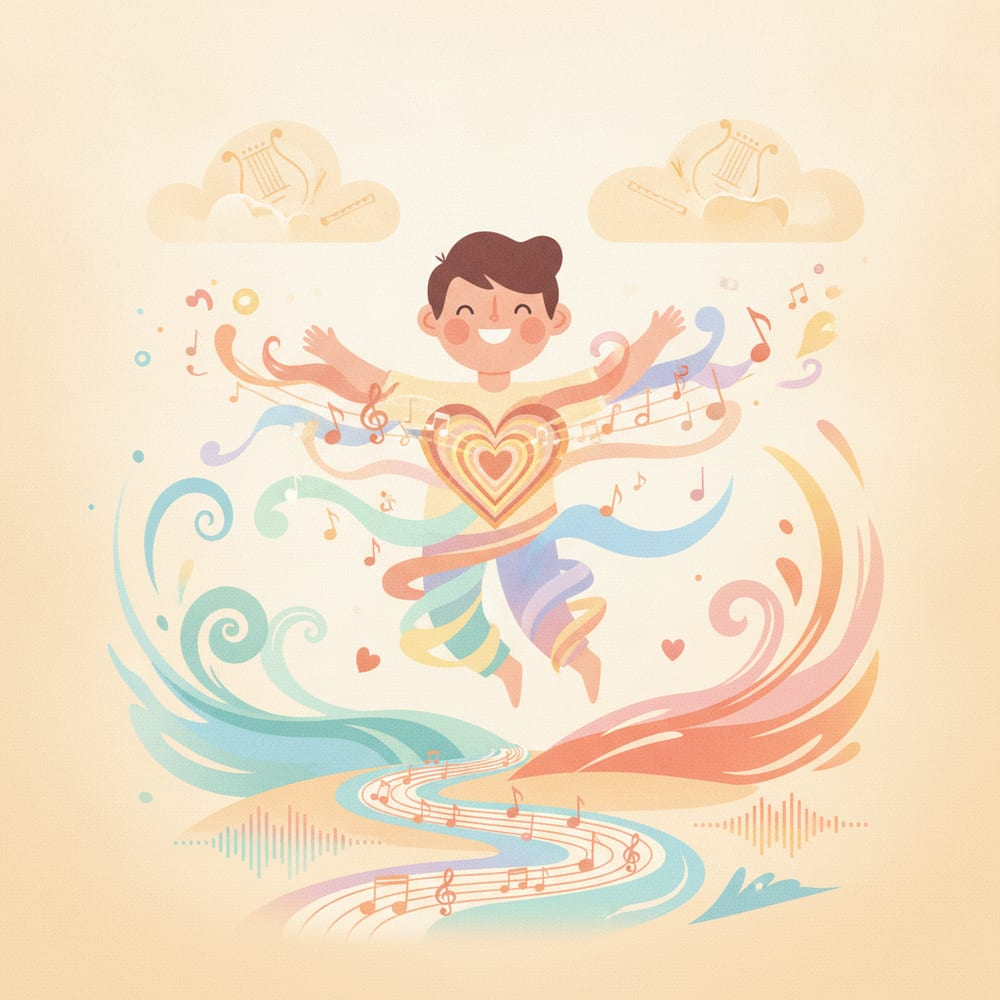
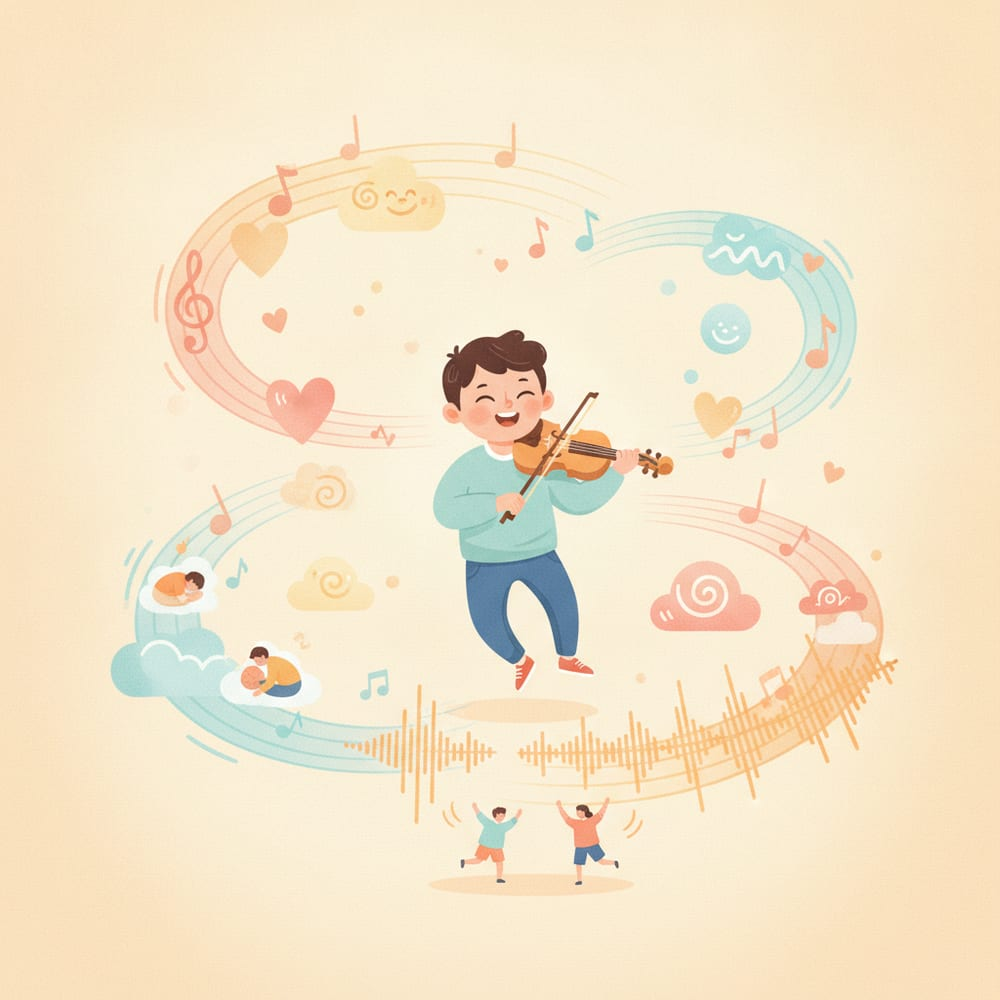
fix(qa-design): 표지 이미지 모바일/태블릿 6px 붕괴 복구(img-slot position) · 본문 좌정렬(가독성) · 정답 보기 강조 · 콕!박스 테마색 통일 · 아카이브 빈상태 안내 · 마스트헤드 크레딧 줄바꿈 · 음악 표지 재생성

diff --git a/assets/styles.css b/assets/styles.css
@@ -39,7 +39,7 @@ body{ margin:0; font-family:var(--sans); font-size:calc(16px*var(--font-scale));
 .topbar{ position:relative; z-index:6; width:100%; max-width:1148px; margin:0 auto 8px; display:flex; flex-wrap:wrap; gap:10px; align-items:center; justify-content:space-between; }
 .brand{ font-family:var(--round); font-size:1.15rem; color:var(--ink); }
 .brand .brand-meta{ font-family:var(--sans); font-weight:700; font-size:.78rem; color:var(--ink-3); margin-left:8px; }
-.brand .credit{ color:var(--accent); font-weight:800; }
+.brand .credit{ color:var(--accent); font-weight:800; white-space:nowrap; }
 .controls{ display:flex; gap:6px; flex-wrap:wrap; align-items:center; }
 .level-toggle{ display:inline-flex; background:#fff; border:2.5px solid var(--ink); border-radius:999px; padding:4px; box-shadow:0 3px 0 rgba(0,0,0,.1); }
 .lvl{ border:0; background:transparent; padding:6px 15px; cursor:pointer; min-height:38px; font-family:var(--sans); font-weight:800; font-size:.86rem; color:var(--body); border-radius:999px; transition:background .15s ease, color .15s ease, box-shadow .15s ease; }
@@ -59,7 +59,7 @@ body{ margin:0; font-family:var(--sans); font-size:calc(16px*var(--font-scale));
 
 /* 도입부: 좌(배지·인트로·제목) + 우(목차·히어로) */
 .lead{ position:relative; z-index:6; display:flex; flex-wrap:wrap; gap:38px; align-items:center; justify-content:center; }
-.img-slot{ width:100%; aspect-ratio:4/3; background:linear-gradient(140deg, var(--sky1), #ffffff); border:3px dashed var(--accent2); border-radius:24px; display:grid; place-items:center; box-shadow:0 10px 26px rgba(60,80,130,.12); }
+.img-slot{ position:relative; width:100%; aspect-ratio:4/3; background:linear-gradient(140deg, var(--sky1), #ffffff); border:3px dashed var(--accent2); border-radius:24px; display:grid; place-items:center; box-shadow:0 10px 26px rgba(60,80,130,.12); }
 .img-ph{ text-align:center; font-family:var(--round); color:var(--accent); font-size:1.15rem; line-height:1.5; }
 .cover-img{ position:absolute; inset:0; width:100%; height:100%; object-fit:cover; border-radius:21px; z-index:2;
   -webkit-mask-image:radial-gradient(130% 130% at 50% 44%, #000 72%, transparent 100%);
@@ -92,7 +92,7 @@ body{ margin:0; font-family:var(--sans); font-size:calc(16px*var(--font-scale));
 .story{ position:relative; z-index:6; margin-top:36px; background:var(--cream); border-radius:22px; padding:8px 30px 30px; box-shadow:0 8px 26px rgba(60,80,130,.10); }
 .redhead{ font-family:var(--round); color:var(--accent); font-size:1.72rem; margin:26px 0 10px; }
 .redhead .mark{ color:var(--ink); }
-.cols{ column-count:2; column-gap:40px; font-size:1.12rem; line-height:1.9; color:var(--body); text-align:justify; }
+.cols{ column-count:2; column-gap:40px; font-size:1.12rem; line-height:1.9; color:var(--body); text-align:left; }
 .cols p{ margin:0 0 1em; }
 .cols .drop::first-letter{ font-family:var(--round); color:var(--accent); font-size:3.1em; line-height:.72; float:left; margin:.18em .12em -.04em 0; }
 .vocab{ border:0; background:transparent; color:var(--ink); font:inherit; cursor:pointer; padding:0; font-weight:800; box-shadow:inset 0 -.36em 0 var(--hi); border-radius:2px; }
@@ -108,9 +108,9 @@ body{ margin:0; font-family:var(--sans); font-size:calc(16px*var(--font-scale));
 @keyframes tipPop{ from{ opacity:0; transform:translateY(4px) scale(.96); } to{ opacity:1; transform:none; } }
 
 /* 콕! 알아두기 콜아웃 */
-.callout{ clear:both; position:relative; margin:26px 0 0; background:#fff; border:3px solid var(--teal); border-radius:16px; padding:18px 22px 18px 92px; box-shadow:0 0 0 6px rgba(47,167,155,.14); }
-.callout .ic{ position:absolute; left:20px; top:50%; transform:translateY(-50%); width:56px; height:56px; }
-.callout h3{ font-family:var(--round); color:var(--teal); margin:0 0 6px; font-size:1.2rem; }
+.callout{ clear:both; position:relative; margin:26px 0 0; background:#fff; border:3px solid var(--accent); border-radius:16px; padding:18px 22px 18px 92px; box-shadow:0 0 0 6px color-mix(in srgb, var(--accent) 14%, transparent); }
+.callout .ic{ position:absolute; left:20px; top:50%; transform:translateY(-50%); width:56px; height:56px; color:var(--accent); }
+.callout h3{ font-family:var(--round); color:var(--accent); margin:0 0 6px; font-size:1.2rem; }
 .callout p{ margin:0; color:var(--body); line-height:1.65; }
 
 /* 버튼 */
@@ -160,7 +160,7 @@ body{ margin:0; font-family:var(--sans); font-size:calc(16px*var(--font-scale));
 .choice{ text-align:left; font:inherit; background:#faf6ee; border:2px solid #ece3d1; border-radius:12px; padding:12px 14px; cursor:pointer; min-height:46px; }
 .choice:hover{ border-color:var(--accent); }
 .choice.selected{ border-color:var(--ink); }
-.choice.correct{ background:#e7f6ec; border-color:#38a169; }
+.choice.correct{ background:#e7f6ec; border-color:#38a169; color:#1c7a43; font-weight:700; }
 .choice.wrong{ background:#fdeaea; border-color:#e05252; }
 .ox-btn{ font-family:var(--round); font-size:1.8rem; width:auto; min-height:72px; display:flex; align-items:center; justify-content:center; }
 .q-cloze{ display:flex; gap:8px; flex-wrap:wrap; }

diff --git a/assets/render.js b/assets/render.js
@@ -102,7 +102,7 @@ export function renderHome(article, { level = "lower", handlers = {} } = {}) {
     <div class="story">
       <div id="article-body">${renderStory(article.body[level], article.vocab)}</div>
       ${article.factbox ? `<aside class="callout">
-        <svg class="ic" viewBox="0 0 60 60" aria-hidden="true"><circle cx="26" cy="26" r="18" fill="none" stroke="#2FA79B" stroke-width="6"/><line x1="39" y1="39" x2="54" y2="54" stroke="#2FA79B" stroke-width="7" stroke-linecap="round"/></svg>
+        <svg class="ic" viewBox="0 0 60 60" aria-hidden="true"><circle cx="26" cy="26" r="18" fill="none" stroke="currentColor" stroke-width="6"/><line x1="39" y1="39" x2="54" y2="54" stroke="currentColor" stroke-width="7" stroke-linecap="round"/></svg>
         <h3>${escapeHtml(article.factbox.title)}</h3>
         <p>${escapeHtml(article.factbox.text)}</p>
       </aside>` : ""}
@@ -147,7 +147,7 @@ export function renderArchive(manifest, today, { onOpen, onClose } = {}) {
       <div class="controls"><button type="button" class="tbtn" id="arch-close">← 오늘 호로</button></div>
     </header>
     <h1 class="arch-title">🗂 지난 호</h1>
-    <p class="arch-sub">읽고 싶은 날의 신문을 골라 보세요. 위에서 갈래별로 모아 볼 수 있어요.</p>
+    ${items.length ? `<p class="arch-sub">읽고 싶은 날의 신문을 골라 보세요. 위에서 갈래별로 모아 볼 수 있어요.</p>` : ""}
     ${chips}
     ${items.length
       ? `<div class="arch-grid">${items.map(card).join("")}</div>`
